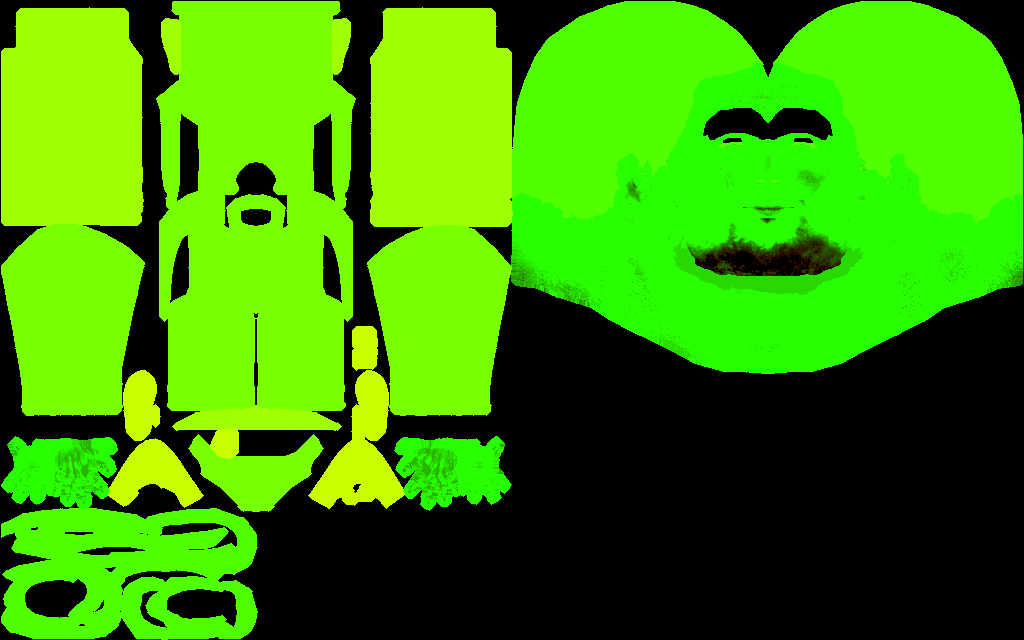
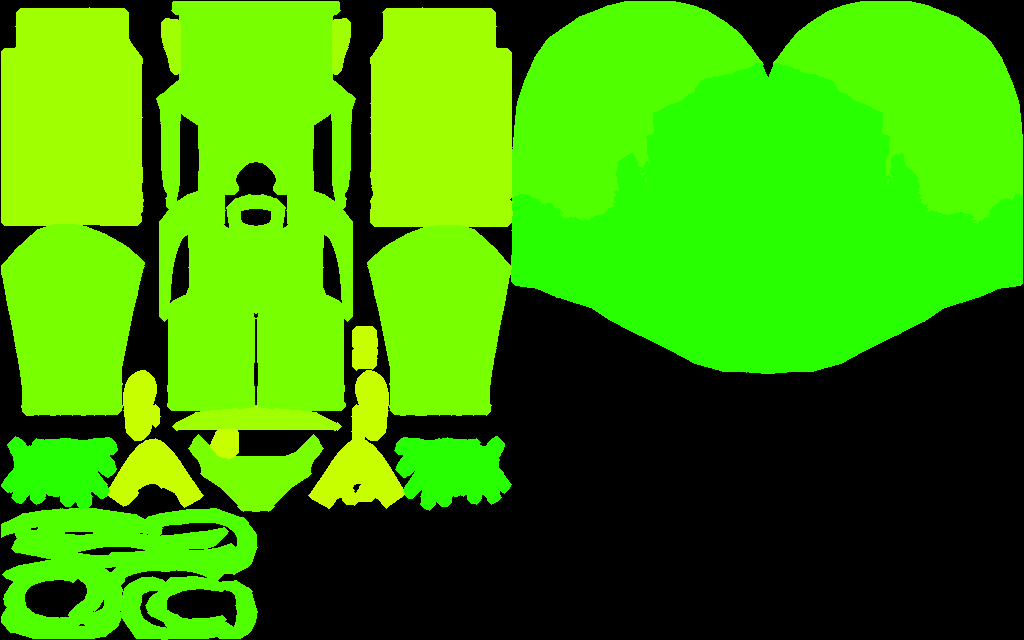
People: sitting is aimed, not bent, so nobody stands through a bench; whole faces re-tone together
- Seat, workout and lie poses aim each limb at a direction in the sitter's own frame. The old
  relative bends piled up on frames where a far figure's animation is skipped, which left
  thighs pointing straight down through the seat. Thighs now rest on the seat, shins drop from
  its front edge, feet are flat and each hand lies on its own thigh.
- Colour-region masks treat the whole face (lids, brows, lips, stubble) as skin, so a changed
  skin tone no longer leaves pale rings round the eyes; hands, neck and bare limbs are full skin.

Claude-Session: https://claude.ai/code/session_01J5dUzkTY8CUhoQbfT3rp1o

diff --git a/src/seating.ts b/src/seating.ts
@@ -6,7 +6,7 @@ import * as THREE from 'three'
 export type Seat = { x: number; z: number; yaw: number; y: number; pose?: 'sit' | 'lie' | 'workout' }
 export type SeatSpot = { id: string; x: number; z: number; r: number; title: string; body: string; enter: string; use: () => void }
 
-type Bones = { person: THREE.Object3D; hips: THREE.Object3D; legs: THREE.Object3D[]; knees: THREE.Object3D[]; arms: THREE.Object3D[]; fores: THREE.Object3D[]; hands: THREE.Object3D[]; hipDrop: number }
+type Bones = { person: THREE.Object3D; hips: THREE.Object3D; legs: THREE.Object3D[]; knees: THREE.Object3D[]; feet: THREE.Object3D[]; arms: THREE.Object3D[]; fores: THREE.Object3D[]; hands: THREE.Object3D[]; hipDrop: number }
 
 const axis = new THREE.Vector3()
 const qParent = new THREE.Quaternion()
@@ -29,17 +29,6 @@ function aim(bone: THREE.Object3D, child: THREE.Object3D, want: THREE.Vector3, t
   bone.updateMatrixWorld(true)
 }
 
-/** Turn a bone about the sitter's own left-right axis by `angle`, whatever the bone's local frame is. */
-function bend(bone: THREE.Object3D, angle: number) {
-  if (!bone.parent) return
-  bone.parent.getWorldQuaternion(qParent)
-  qDelta.setFromAxisAngle(axis, angle)
-  // local delta = parent^-1 * worldDelta * parent
-  const inv = qParent.clone().invert()
-  bone.quaternion.premultiply(inv.multiply(qDelta).multiply(qParent))
-  bone.updateMatrixWorld(true)
-}
-
 function findBones(root: THREE.Object3D): Bones | null {
   const person = root.userData.person as THREE.Object3D | undefined
   if (!person) return null
@@ -48,16 +37,17 @@ function findBones(root: THREE.Object3D): Bones | null {
   const hips = by(/^Bip01_Pelvis$/)
   const legL = by(/^Bip01_L_Thigh$/), legR = by(/^Bip01_R_Thigh$/)
   const kneeL = by(/^Bip01_L_Calf$/), kneeR = by(/^Bip01_R_Calf$/)
+  const footL = by(/^Bip01_L_Foot$/), footR = by(/^Bip01_R_Foot$/)
   const armL = by(/^Bip01_L_UpperArm$/), armR = by(/^Bip01_R_UpperArm$/)
   const foreL = by(/^Bip01_L_Forearm$/), foreR = by(/^Bip01_R_Forearm$/)
   const handL = by(/^Bip01_L_Hand$/), handR = by(/^Bip01_R_Hand$/)
-  if (!hips || !legL || !legR || !kneeL || !kneeR) return null
+  if (!hips || !legL || !legR || !kneeL || !kneeR || !footL || !footR) return null
   person.updateMatrixWorld(true)
   // Standing hip height above the feet, and thigh length: sitting drops the hips by about one thigh.
   const hipY = legL.getWorldPosition(v).y
   const kneeY = kneeL.getWorldPosition(new THREE.Vector3()).y
   const rootY = root.getWorldPosition(new THREE.Vector3()).y
-  const bones: Bones = { person, hips, legs: [legL, legR], knees: [kneeL, kneeR], arms: [armL, armR].filter(Boolean) as THREE.Object3D[], fores: [foreL, foreR].filter(Boolean) as THREE.Object3D[], hands: [handL, handR].filter(Boolean) as THREE.Object3D[], hipDrop: hipY - rootY }
+  const bones: Bones = { person, hips, legs: [legL, legR], knees: [kneeL, kneeR], feet: [footL, footR], arms: [armL, armR].filter(Boolean) as THREE.Object3D[], fores: [foreL, foreR].filter(Boolean) as THREE.Object3D[], hands: [handL, handR].filter(Boolean) as THREE.Object3D[], hipDrop: hipY - rootY }
   void kneeY
   person.userData.sitBones = bones
   return bones
@@ -69,8 +59,6 @@ export function createSeating() {
   let rootYaw0 = 0
   let lastRoot: THREE.Object3D | null = null
   let lastPose: Seat['pose'] = 'sit'
-  // Rest pose captured once when seated: each frame starts from it, so bends never pile up and the walk/idle clip can't swing the limbs.
-  const base = new Map<THREE.Object3D, THREE.Quaternion>()
   return {
     get sitting() { return seat },
     sit(next: Seat, root: THREE.Object3D) {
@@ -82,7 +70,6 @@ export function createSeating() {
     stand() {
       if (!seat) return
       seat = null
-      base.clear()
       if (lastRoot) lastRoot.rotation.y = rootYaw0
     },
     /** Call after avatar.step() each frame. Cheap: a handful of quaternion multiplies while seated, nothing otherwise. */
@@ -95,53 +82,61 @@ export function createSeating() {
         if (lastRoot !== root) { lastRoot = root; rootYaw0 = root.rotation.y }
         root.rotation.y = seat.yaw - b.person.rotation.y
       }
-      for (const bone of [b.hips, ...b.legs, ...b.knees, ...b.arms, ...b.fores]) {
-        const q0 = base.get(bone)
-        if (seat && !q0 && blend > 0.95) base.set(bone, bone.quaternion.clone())
-        else if (q0) bone.quaternion.copy(q0)
-      }
       root.updateMatrixWorld(true)
       b.person.getWorldQuaternion(qPerson)
       axis.set(1, 0, 0).applyQuaternion(qPerson).normalize()
       const t = blend
       const pose = seat?.pose ?? lastPose
       if (seat) lastPose = seat.pose ?? 'sit'
+      // Every limb is AIMED at a direction in the sitter's own frame (never bent by an amount), so the pose is
+      // the same whatever clip is playing and cannot pile up on frames where a far figure's animation is skipped.
+      vFwd.set(0, 0, 1).applyQuaternion(qPerson).normalize()
+      const want = (r: number, u: number, f: number) => vWant.set(0, u, 0).addScaledVector(axis, r).addScaledVector(vFwd, f).normalize()
+      const sideOf = (bone: THREE.Object3D) => Math.sign(bone.getWorldPosition(vFrom).sub(b.hips.getWorldPosition(vTo)).dot(axis)) || 1
       if (pose === 'lie') {
-        // Lie back on the bed: tip the whole person onto its back at mattress height, arms relaxed.
+        // Lie back on the bed: tip the whole person onto its back at mattress height.
         b.person.rotation.x = -Math.PI / 2 * t
         b.person.position.y = ((seat?.y ?? 0.5) + 0.12) * t / (root.scale.y || 1)
-        for (const a of b.arms) bend(a, -0.15 * t)
         return
       }
       if (b.person.rotation.x !== 0) b.person.rotation.x = 0
       if (pose === 'workout') {
-        // Squat loop with arms forward: a simple procedural workout on top of the idle clip.
+        // Squat loop with the arms held forward.
         const k = (Math.sin(performance.now() / 1000 * 3.2) + 1) / 2 * t
-        for (const l of b.legs) bend(l, -1.0 * k)
-        for (const kn of b.knees) bend(kn, 1.7 * k)
-        for (const a of b.arms) bend(a, -1.45 * t)
+        for (let i = 0; i < 2; i++) {
+          const side = sideOf(b.legs[i]!)
+          aim(b.legs[i]!, b.knees[i]!, want(side * 0.08, -Math.cos(1.0 * k), Math.sin(1.0 * k)), 1)
+          aim(b.knees[i]!, b.feet[i]!, want(side * 0.02, -Math.cos(0.7 * k), -Math.sin(0.7 * k)), 1)
+        }
+        for (let i = 0; i < b.arms.length; i++) {
+          const fore = b.fores[i], hand = b.hands[i]
+          if (!fore || !hand) continue
+          const side = sideOf(b.arms[i]!)
+          aim(b.arms[i]!, fore, want(side * 0.12, -Math.cos(1.45 * t), Math.sin(1.45 * t)), 1)
+          aim(fore, hand, want(side * 0.04, -Math.cos(1.5 * t), Math.sin(1.5 * t)), 1)
+        }
         b.person.position.y = -0.32 * k / (root.scale.y || 1)
         return
       }
-      // Thighs level and forward, shins straight down: hips on the seat, knees bent at a right angle.
-      for (const l of b.legs) bend(l, -1.52 * t)
-      for (const k of b.knees) bend(k, 1.52 * t)
-      // Arms: elbows stay by the sides and the forearms come forward and a little inward, so each hand rests
-      // on its own thigh (mid-thigh, or nearer the knee on the other variant). Aimed, so any standing clip works.
+      // Sit: thighs level along the seat, shins straight down from its front edge, feet flat.
+      for (let i = 0; i < 2; i++) {
+        const side = sideOf(b.legs[i]!)
+        aim(b.legs[i]!, b.knees[i]!, want(side * 0.07, -0.05, 1), t)
+        aim(b.knees[i]!, b.feet[i]!, want(side * 0.02, -1, 0.04), t)
+      }
+      // Arms: elbows by the sides, forearms forward and a little inward, so each hand lies on its own thigh
+      // (mid-thigh, or nearer the knee on the other variant).
       const variant = Math.abs(Math.round((seat?.x ?? 0) * 3) + Math.round((seat?.z ?? 0) * 5) + Math.round((seat?.yaw ?? 0) * 7)) % 2
-      vFwd.set(0, 0, 1).applyQuaternion(qPerson).normalize()
-      const want = (r: number, u: number, f: number) => vWant.set(0, u, 0).addScaledVector(axis, r).addScaledVector(vFwd, f).normalize()
       for (let i = 0; i < b.arms.length; i++) {
         const arm = b.arms[i]!, fore = b.fores[i], hand = b.hands[i]
         if (!fore || !hand) continue
-        // Which side this arm is on, from where it actually is.
-        const side = Math.sign(arm.getWorldPosition(vFrom).sub(b.hips.getWorldPosition(vTo)).dot(axis)) || 1
-        aim(arm, fore, variant === 0 ? want(side * 0.1, -0.95, 0.26) : want(side * 0.08, -0.9, 0.4), t)
-        aim(fore, hand, variant === 0 ? want(-side * 0.33, -0.5, 0.8) : want(-side * 0.3, -0.36, 0.88), t)
+        const side = sideOf(arm)
+        aim(arm, fore, variant === 0 ? want(side * 0.1, -0.97, 0.16) : want(side * 0.08, -0.93, 0.3), t)
+        aim(fore, hand, variant === 0 ? want(-side * 0.3, -0.62, 0.72) : want(-side * 0.26, -0.5, 0.82), t)
       }
-      // Rest the hips on the seat top (scaled person: work in world units then convert).
+      // Rest the hips on the seat top: the thigh's own thickness keeps it above the boards.
       const seatY = seat?.y ?? 0.46
-      const drop = Math.max(0, b.hipDrop - (seatY + 0.06))
+      const drop = Math.max(0, b.hipDrop - (seatY + 0.09))
       b.person.position.y = -drop * t / (root.scale.y || 1)
     },
   }
